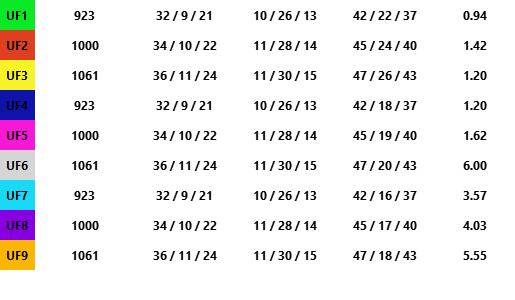
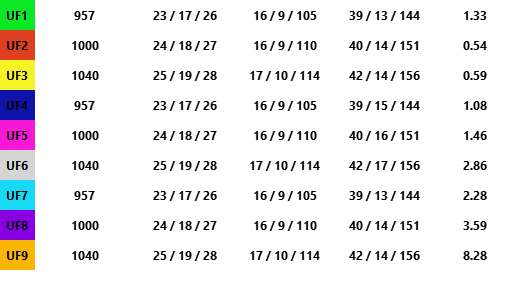
corregido reporte csv

diff --git a/tools/__init__.py b/tools/__init__.py
@@ -685,7 +685,7 @@ class aGraeTools():
     def exportarResumenFertilizacion(self,idcampania:int,idexplotacion:int,nameExp:str):
         s = QSettings('agrae','dbConnection')
         path = s.value('reporte_path')
-        q = '''select * from fert_report order by iddata,uf_etiqueta;'''
+        q = '''select distinct 0 as wkt_geom, row_number() over () as fid, row_number() over () as _uid_, fp.* from fert_intraparcelaria  fi join fert_report fp on fp.codigo = fi.codigo and fp.uf = fi.uf order by lote,uf_etiqueta;'''
         query  = aGraeSQLTools().getSql('uf_aportes_query.sql').format(idcampania,idexplotacion,q)
         try: 
             with self.conn.cursor() as cursor:  

diff --git a/tools/geeCore.py b/tools/geeCore.py
@@ -11,8 +11,6 @@ from qgis.core import *
 
 from ..tools import aGraeTools
 
-
-
 #from qgis.PyQt.QtCore import QSettings
 
 class aGraeNDVI:
